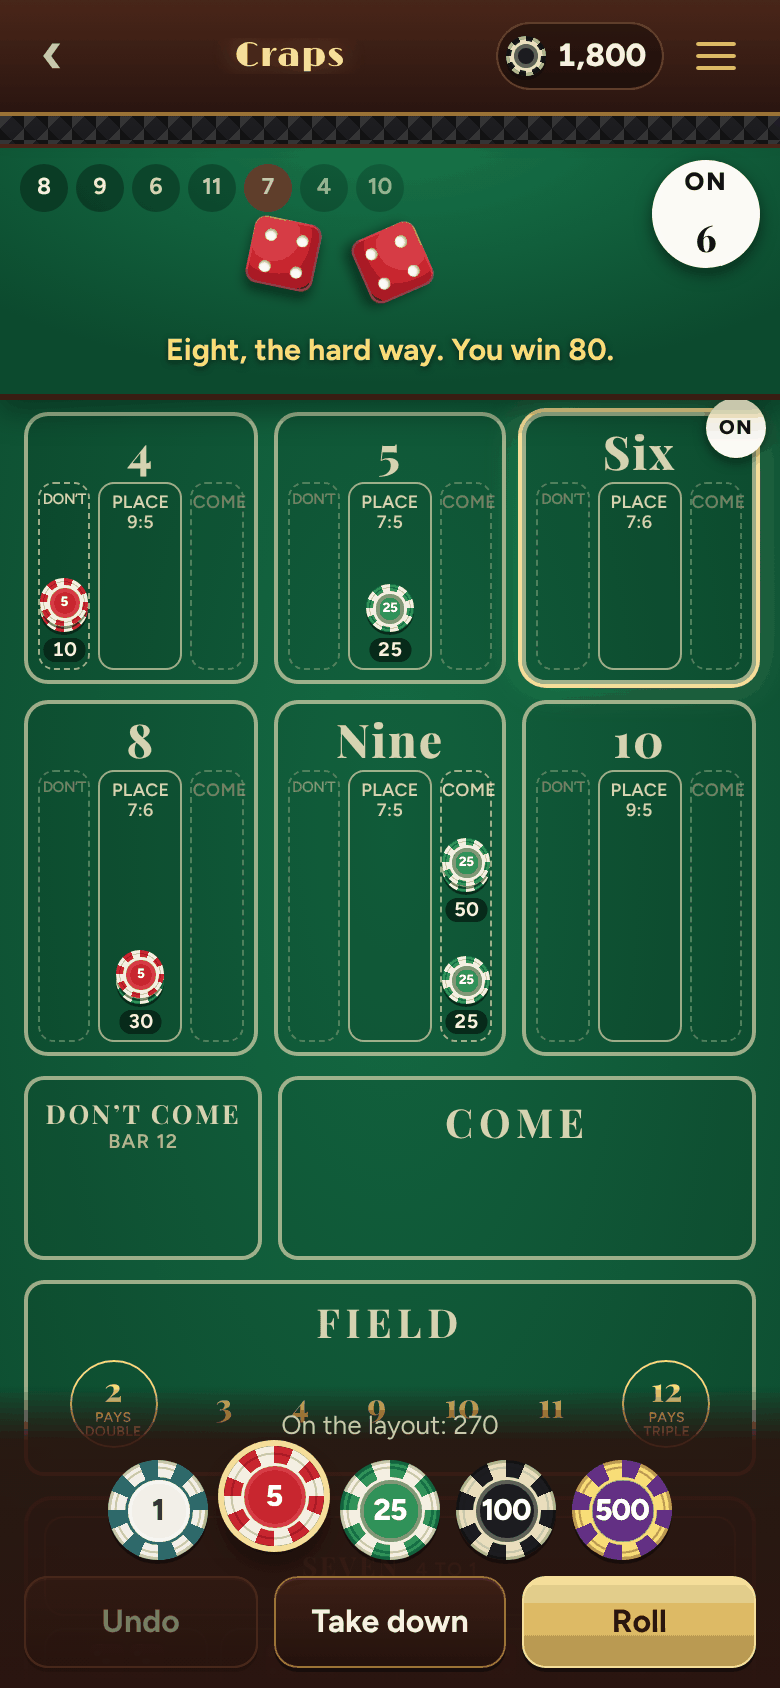
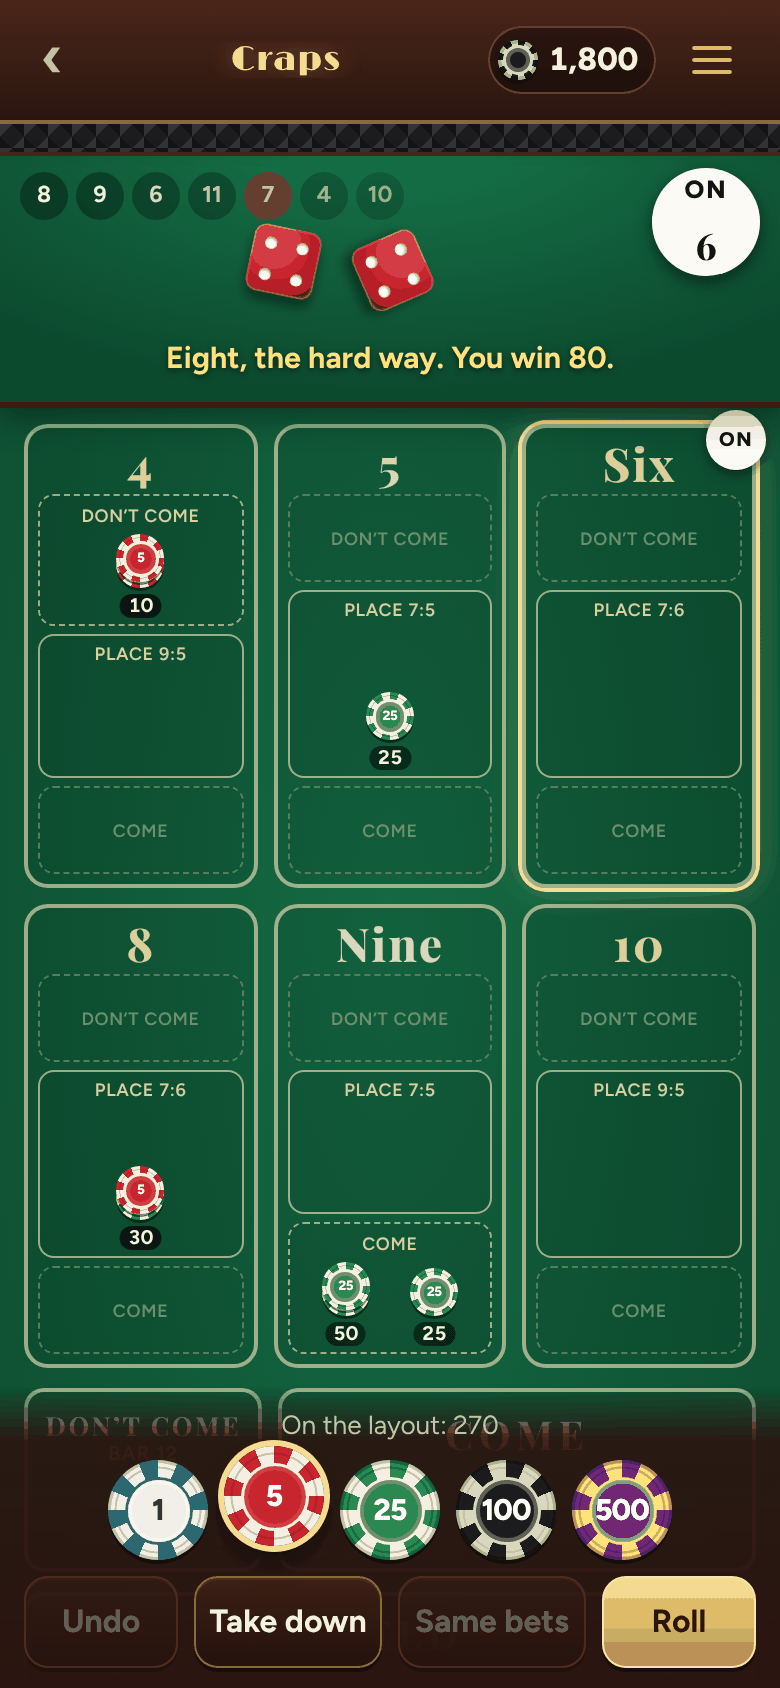
Craps on a phone: the come and don't come boxes are bands across each number
On a phone the come and don't come boxes beside each number were strips 24 to 26 px wide either side of a 38 to 42 px place bet, so a slightly wide tap put down a place bet you didn't mean, and at 360 px DON'T and COME ran out of their boxes. Under 640 px they're now bands across the number, the don't come above the place bet and the come below, at least 44 px tall with "Don't come" and "Come" on one line. A band with chips grows to hold them under its name, a come bet's odds sit beside it, and a place bet's Off mark sits beside its chips. Bets, payouts and which box each bet sits in are unchanged; the layout scrolls further on a phone, the strips are as they were on a tablet and a laptop, and the pass line still comes into view on each come-out. The craps pictures are made again. This answers "Craps on a phone: wider come and don't-come boxes on each number". An e2e check of the bands at 390 and 360 (order, full width, height, labels on one line) and of the strips at 1280 fails without it, and the overlap check knows where the Off mark sits now.

Claude-Session: https://claude.ai/code/session_01PQbLNUqCq985TAYanzzHkW

Changed region(s): [[0.0, 0.0, 1.0, 1.0]]

diff --git a/craps/index.html b/craps/index.html
@@ -30,12 +30,12 @@
   </div>
   <main>
     <section class="numbers" aria-label="The numbers: place bets, and come bets that have travelled">
-      <div class="box" data-n="4"><span class="num">4</span><button type="button" class="slot dc" data-spot="dcome4"><i>Don’t</i></button><button type="button" class="slot place" data-spot="place4"><i>Place 9:5</i></button><button type="button" class="slot cm" data-spot="come4"><i>Come</i></button></div>
-      <div class="box" data-n="5"><span class="num">5</span><button type="button" class="slot dc" data-spot="dcome5"><i>Don’t</i></button><button type="button" class="slot place" data-spot="place5"><i>Place 7:5</i></button><button type="button" class="slot cm" data-spot="come5"><i>Come</i></button></div>
-      <div class="box" data-n="6"><span class="num">Six</span><button type="button" class="slot dc" data-spot="dcome6"><i>Don’t</i></button><button type="button" class="slot place" data-spot="place6"><i>Place 7:6</i></button><button type="button" class="slot cm" data-spot="come6"><i>Come</i></button></div>
-      <div class="box" data-n="8"><span class="num">8</span><button type="button" class="slot dc" data-spot="dcome8"><i>Don’t</i></button><button type="button" class="slot place" data-spot="place8"><i>Place 7:6</i></button><button type="button" class="slot cm" data-spot="come8"><i>Come</i></button></div>
-      <div class="box" data-n="9"><span class="num">Nine</span><button type="button" class="slot dc" data-spot="dcome9"><i>Don’t</i></button><button type="button" class="slot place" data-spot="place9"><i>Place 7:5</i></button><button type="button" class="slot cm" data-spot="come9"><i>Come</i></button></div>
-      <div class="box" data-n="10"><span class="num">10</span><button type="button" class="slot dc" data-spot="dcome10"><i>Don’t</i></button><button type="button" class="slot place" data-spot="place10"><i>Place 9:5</i></button><button type="button" class="slot cm" data-spot="come10"><i>Come</i></button></div>
+      <div class="box" data-n="4"><span class="num">4</span><button type="button" class="slot dc" data-spot="dcome4"><i>Don’t<span class="wide"> come</span></i></button><button type="button" class="slot place" data-spot="place4"><i>Place 9:5</i></button><button type="button" class="slot cm" data-spot="come4"><i>Come</i></button></div>
+      <div class="box" data-n="5"><span class="num">5</span><button type="button" class="slot dc" data-spot="dcome5"><i>Don’t<span class="wide"> come</span></i></button><button type="button" class="slot place" data-spot="place5"><i>Place 7:5</i></button><button type="button" class="slot cm" data-spot="come5"><i>Come</i></button></div>
+      <div class="box" data-n="6"><span class="num">Six</span><button type="button" class="slot dc" data-spot="dcome6"><i>Don’t<span class="wide"> come</span></i></button><button type="button" class="slot place" data-spot="place6"><i>Place 7:6</i></button><button type="button" class="slot cm" data-spot="come6"><i>Come</i></button></div>
+      <div class="box" data-n="8"><span class="num">8</span><button type="button" class="slot dc" data-spot="dcome8"><i>Don’t<span class="wide"> come</span></i></button><button type="button" class="slot place" data-spot="place8"><i>Place 7:6</i></button><button type="button" class="slot cm" data-spot="come8"><i>Come</i></button></div>
+      <div class="box" data-n="9"><span class="num">Nine</span><button type="button" class="slot dc" data-spot="dcome9"><i>Don’t<span class="wide"> come</span></i></button><button type="button" class="slot place" data-spot="place9"><i>Place 7:5</i></button><button type="button" class="slot cm" data-spot="come9"><i>Come</i></button></div>
+      <div class="box" data-n="10"><span class="num">10</span><button type="button" class="slot dc" data-spot="dcome10"><i>Don’t<span class="wide"> come</span></i></button><button type="button" class="slot place" data-spot="place10"><i>Place 9:5</i></button><button type="button" class="slot cm" data-spot="come10"><i>Come</i></button></div>
     </section>
 
     <div class="comes">

diff --git a/craps/css/craps.css b/craps/css/craps.css
@@ -85,8 +85,10 @@
 /* a number's slot: the Off pill sits at the top, under the print, clear of the stack and its amount; a come or don't
    come bet with odds stands taller, its odds stacked above the bet with room for both amounts */
 .slot.is-off::after { top: 27px; right: 50%; transform: translateX(50%); }
-.slot .stack.odds { bottom: 74px; }
-.slot:has(> .stack.odds) { min-height: 136px; }
+@media (min-width: 640px) {
+  .slot .stack.odds { bottom: 74px; }
+  .slot:has(> .stack.odds) { min-height: 136px; }
+}
 .slot .stack.odds.off .chip { opacity: .5; }
 .slot .stack.odds.off .amt { background: #121214; color: #f2f2f2; }
 .slot .stack.odds.off .amt b { font: 800 .58rem/1 var(--sans); letter-spacing: .08em; text-transform: uppercase; }
@@ -113,8 +115,9 @@
 .slot i { position: absolute; left: 0; right: 0; top: 4px; font: 600 .56rem/1.05 var(--sans); font-style: normal; letter-spacing: .02em; text-transform: uppercase; text-align: center; pointer-events: none; }
 .slot .stack { bottom: 18px; }
 .slot.dc, .slot.cm { border-style: dashed; }
-/* the narrow don't come slots: small enough that DON'T fits between the dashes on a phone */
+/* the narrow don't come slots on a wider screen: small enough that DON'T fits between the dashes */
 .slot.dc i { font-size: .47rem; letter-spacing: -.03em; }
+.slot i .wide { display: none; }
 .slot .stack .amt { font-size: .62rem; padding: 1px 4px; }
 
 .comes { display: grid; grid-template-columns: 1fr 2fr; gap: 8px; }
@@ -159,9 +162,26 @@
   .center .prop.wide { grid-column: span 4; }
   .pit { height: 150px; }
 }
-@media (max-width: 359px) {
-  .box { grid-template-columns: 1fr 1.3fr 1fr; padding: 5px 3px 4px; }
-  .slot i { font-size: .5rem; }
+/* On a phone the come and don't come boxes in each number are bands across it, the don't come above the place bet and
+   the come below, each at least 44 px tall with its name on one line. A bet's chips sit in its band as they do in the
+   strips on a wider screen; a come bet with odds has them side by side, the odds on the left. */
+@media (max-width: 639px) {
+  .box { grid-template-columns: 1fr; grid-template-rows: auto auto 1fr auto; gap: 4px; padding: 6px 5px 5px; }
+  .slot i, .slot.dc i { font-size: .56rem; letter-spacing: .04em; white-space: nowrap; }
+  .slot i .wide { display: inline; }
+  .slot.place { min-height: 72px; }
+  .slot.dc, .slot.cm { min-height: 44px; }
+  .slot.dc i, .slot.cm i { top: 50%; transform: translateY(-50%); }
+  /* with chips in it, a band makes room for them under its name */
+  .slot.dc:has(> .stack), .slot.cm:has(> .stack) { min-height: 66px; }
+  .slot.dc:has(> .stack) i, .slot.cm:has(> .stack) i { top: 5px; transform: none; }
+  .slot.dc .stack, .slot.cm .stack { height: calc(var(--chip-s) * (1 + (min(var(--n, 1), 3) - 1) * .13)); }
+  .slot.dc .stack .chip:nth-child(n+4), .slot.cm .stack .chip:nth-child(n+4) { display: none; }
+  .slot:has(> .stack.odds) > .stack { left: 72%; }
+  .slot:has(> .stack.odds) > .stack.odds { left: 28%; }
+  /* the Off pill on a place bet sits beside its chips, at the left, with the chips moved over to make room */
+  .slot.is-off::after { top: auto; bottom: 22px; left: 4px; right: auto; transform: none; }
+  .slot.is-off > .stack { left: calc(50% + 10px); }
 }
 
 /* a wide screen: the whole layout at once, in two columns */

diff --git a/sw.js b/sw.js
@@ -8,7 +8,7 @@
 // fingerprint of every file in SHELL: change any of them and test/e2e.mjs fails until FILES is changed to match (it
 // says what to), which changes this file, so every copy is made whole again at once.
 const CACHE = 'house-money-v8'; // bump the number when the file list changes
-const FILES = 'd6ec56ed'; // test/e2e.mjs checks this
+const FILES = '9a378b75'; // test/e2e.mjs checks this
 const SHELL = [
   './', 'baccarat/', 'blackjack/', 'cherry-bell/', 'craps/', 'motherlode/', 'odds-and-ends/', 'records/',
   'roulette/', 'video-poker/', '404.html', 'baccarat/css/baccarat.css', 'baccarat/index.html', 'baccarat/js/app.js',

diff --git a/README.md b/README.md
@@ -67,7 +67,7 @@ The loudest table in the house, and you're the shooter. Put chips on the layout 
 
 - **The pass line.** On the come-out, 7 or 11 wins and 2, 3 or 12 loses. Any other number is the point, and the puck turns On over its box. Then the point before a 7 wins, and a 7 is the seven out. A pass bet can't come down once there's a point. On a come-out with nothing on the line (your first roll, after a seven out or a point made), the layout brings the pass line up to sit just above the rack.
 - **Odds with no house edge.** Behind the pass line, odds pay true odds: 2 to 1 on 4 and 10, 3 to 2 on 5 and 9, 6 to 5 on 6 and 8. You can bet up to 3×, 4× and 5× your line bet. Don't pass bars the 12, and its lay odds go up to 6×. An amount that doesn't pay in whole chips (5 behind a 5 is owed 7½) pays the whole chips now and keeps the fraction toward your next odds win, so odds and lay odds pay exactly true odds over time.
-- **Come and don't come.** Once there's a point, a come bet plays like a new pass line and travels up to the next number rolled. Tap the Come spot in that number's box to put odds on it. Come odds are off on the come-out, and lay odds on a don't come always work.
+- **Come and don't come.** Once there's a point, a come bet plays like a new pass line and travels up to the next number rolled. Tap the Come spot in that number's box to put odds on it (on a phone, the come and don't come boxes are bands across each number, above and below its place bet). Come odds are off on the come-out, and lay odds on a don't come always work.
 - **Place bets** pay 9 to 5 on 4 and 10, 7 to 5 on 5 and 9, and 7 to 6 on 6 and 8. They're off on the come-out, and the odd chips are paid down, so a bet that won't pay whole says so as it goes down, and what would: "Five on the 6 pays 5. Make it 6 and it pays 7."
 - **The field and the middle.** The field is one roll: 3, 4, 9, 10 and 11 pay even money, 2 pays double and 12 pays triple. The hardways pay 9 to 1 on 6 and 8 and 7 to 1 on 4 and 10, and are off on the come-out. The one-roll bets are Seven at 4 to 1, Any craps at 7 to 1, 3 and 11 at 15 to 1, and 2 and 12 at 30 to 1.
 - **Working on the come-out.** A switch in the craps menu, off to start, keeps place bets, hardways and come odds working on the come-out roll too, the way a player can ask the dealer.
